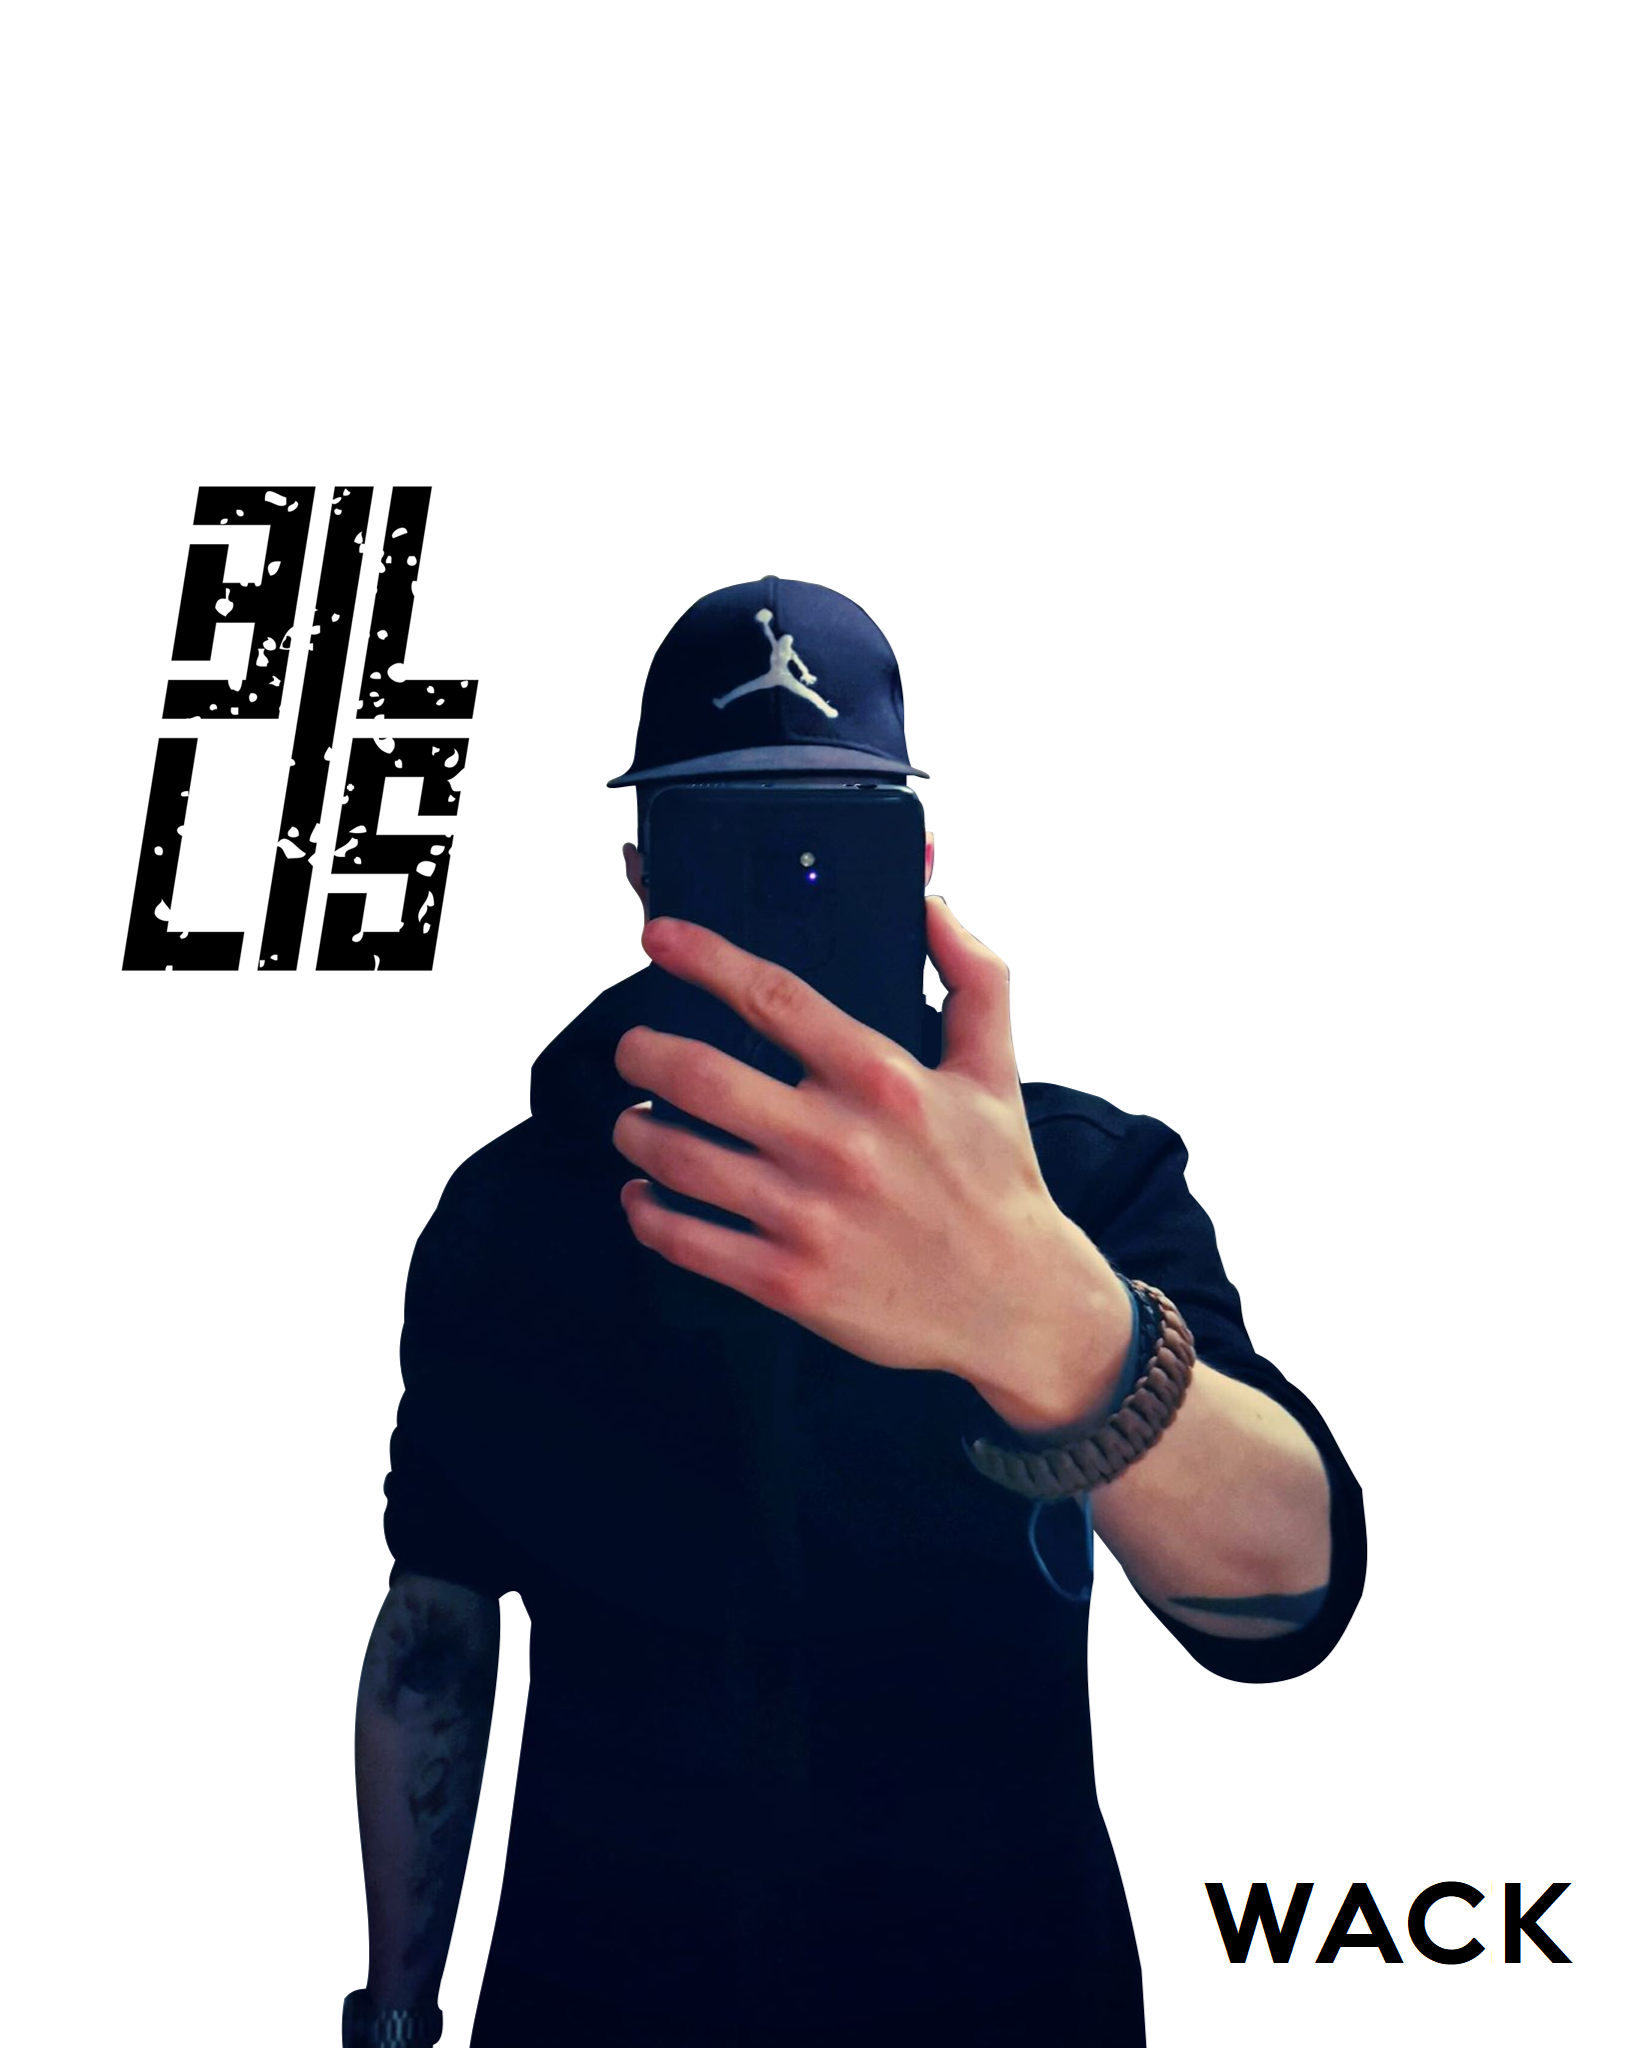
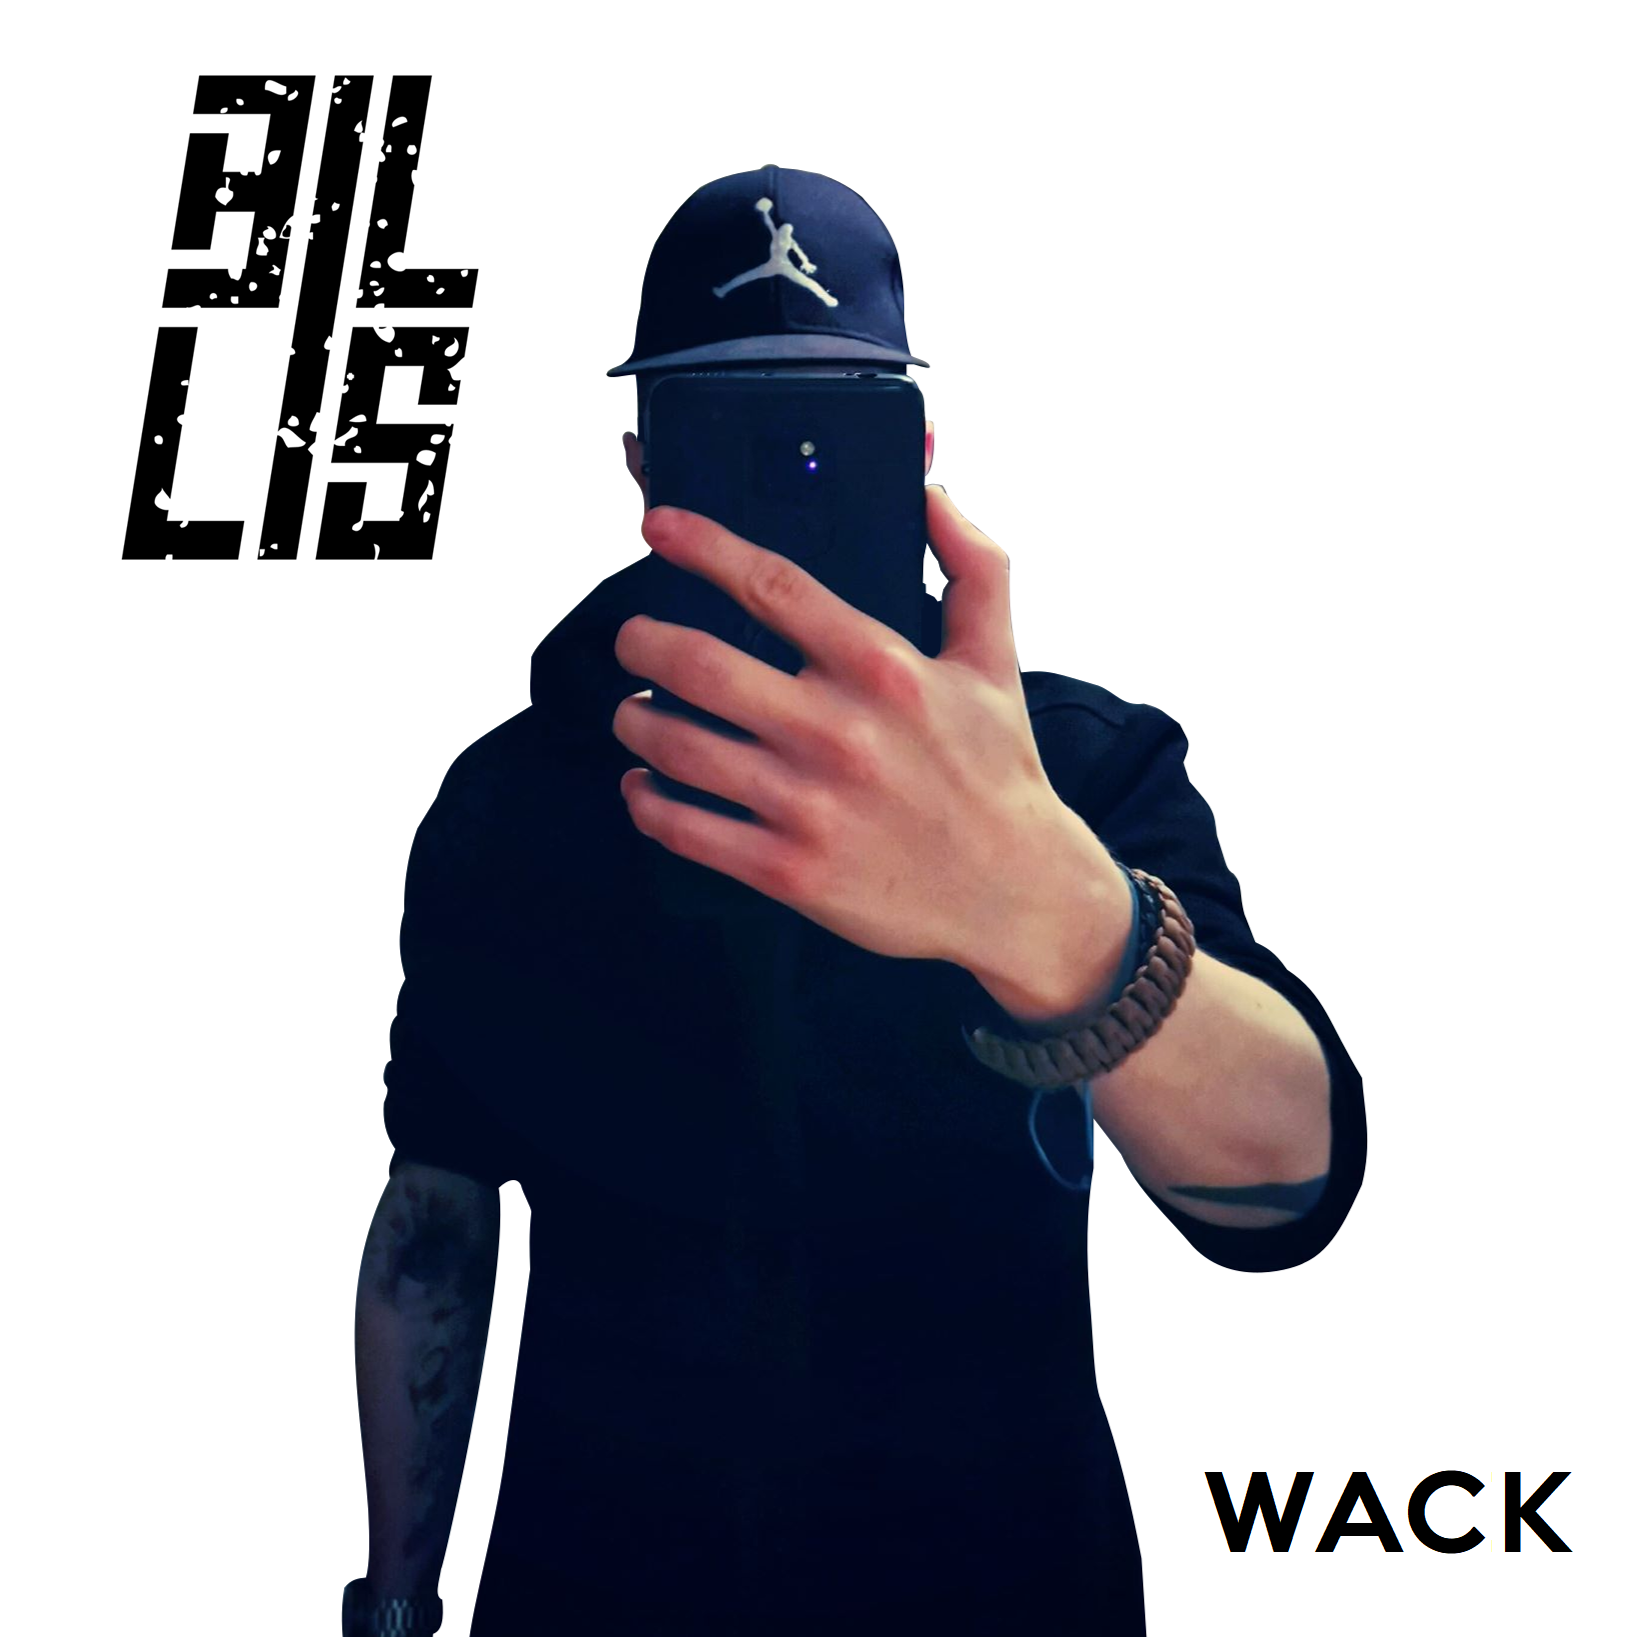
Style songs

Changed region(s): [[0.0623, 0.0312, 0.8417, 0.9658], [0.6858, 0.8723, 0.9664, 0.9658], [0.2182, 0.8723, 0.2494, 0.9035]]

diff --git a/index.html b/index.html
@@ -66,11 +66,11 @@
                     <div class="featured-song grid">
                         <div class="featured-song__left">
                             <img
-                                class="song__cover"
+                                class="featured-song__cover"
                                 src="img/wack_ii.jpg"
                                 alt="Wack II cover art"
                             />
-                            <div>
+                            <div class="featured-song__info">
                                 <h3 class="featured-song__title">WACK II</h3>
                                 <p class="featured-song__subtitle">OUT NOW!</p>
                             </div>
@@ -90,49 +90,82 @@
                         </div>
                     </div>
                     <div class="song">
-                        <img src="" alt="" />
-                        <h3>WACK</h3>
-                        <a
-                            href=""
-                            class="button button--primary button--outlined"
-                        >
-                            <i class="material-icons">play_arrow</i>
-                            LISTEN
-                        </a>
-                        <a href="" class="button button--outlined">
-                            <i class="material-icons">notes</i>
-                            LYRICS
-                        </a>
+                        <div class="song__left">
+                            <img
+                                class="song__cover"
+                                src="img/wack.png"
+                                alt="Wack cover art"
+                            />
+                        </div>
+                        <div class="song__right">
+                            <h3 class="song__title">WACK</h3>
+                            <a
+                                href=""
+                                class="button button--primary button--outlined button--small"
+                            >
+                                <i class="material-icons">play_arrow</i>
+                                LISTEN
+                            </a>
+                            <a
+                                href=""
+                                class="button button--outlined button--small"
+                            >
+                                <i class="material-icons">notes</i>
+                                LYRICS
+                            </a>
+                        </div>
                     </div>
                     <div class="song">
-                        <img src="" alt="" />
-                        <h3>WACK</h3>
-                        <a
-                            href=""
-                            class="button button--primary button--outlined"
-                        >
-                            <i class="material-icons">play_arrow</i>
-                            LISTEN
-                        </a>
-                        <a href="" class="button button--outlined">
-                            <i class="material-icons">notes</i>
-                            LYRICS
-                        </a>
+                        <div class="song__left">
+                            <img
+                                class="song__cover"
+                                src="img/wack.png"
+                                alt="Wack cover art"
+                            />
+                        </div>
+                        <div class="song__right">
+                            <h3 class="song__title">WACK</h3>
+                            <a
+                                href=""
+                                class="button button--primary button--outlined button--small"
+                            >
+                                <i class="material-icons">play_arrow</i>
+                                LISTEN
+                            </a>
+                            <a
+                                href=""
+                                class="button button--outlined button--small"
+                            >
+                                <i class="material-icons">notes</i>
+                                LYRICS
+                            </a>
+                        </div>
                     </div>
                     <div class="song">
-                        <img src="" alt="" />
-                        <h3>WACK</h3>
-                        <a
-                            href=""
-                            class="button button--primary button--outlined"
-                        >
-                            <i class="material-icons">play_arrow</i>
-                            LISTEN
-                        </a>
-                        <a href="" class="button button--outlined">
-                            <i class="material-icons">notes</i>
-                            LYRICS
-                        </a>
+                        <div class="song__left">
+                            <img
+                                class="song__cover"
+                                src="img/wack.png"
+                                alt="Wack cover art"
+                            />
+                        </div>
+                        <div class="song__right">
+                            <h3 class="song__title">WACK</h3>
+                            <a
+                                href=""
+                                class="button button--primary button--outlined button--small"
+                            >
+                                <i class="material-icons">play_arrow</i>
+                                LISTEN
+                            </a>
+                            <a
+                                href=""
+                                class="button button--outlined button--small"
+                            >
+                                <i class="material-icons">notes</i>
+                                LYRICS
+                            </a>
+                        </div>
                     </div>
                 </div>
             </section>

diff --git a/css/main.css b/css/main.css
@@ -82,6 +82,7 @@ a {
 }
 
 .material-icons {
+  font-size: 1.4em;
   margin-right: 0.4em;
 }
 
@@ -149,6 +150,7 @@ a {
   display: grid;
   -ms-grid-columns: (1fr)[3];
       grid-template-columns: repeat(3, 1fr);
+  grid-gap: 8rem 0;
   -webkit-box-align: center;
       -ms-flex-align: center;
           align-items: center;
@@ -173,12 +175,16 @@ a {
           align-items: center;
 }
 
+.featured-song__info {
+  margin-left: 1.4rem;
+}
+
 .featured-song__title {
   color: var(--clr-primary);
   margin-bottom: -0.6rem;
 }
 
-.featured-song .song__cover {
+.featured-song__cover {
   width: 16rem;
   -webkit-transform: translateX(-3.2rem);
           transform: translateX(-3.2rem);
@@ -190,6 +196,25 @@ a {
   background: var(--clr-grey-3);
   background: -webkit-gradient(linear, left top, right top, from(#474747), to(rgba(71, 71, 71, 0)));
   background: linear-gradient(to right, #474747 0%, rgba(71, 71, 71, 0) 100%);
+}
+
+.song {
+  display: -webkit-box;
+  display: -ms-flexbox;
+  display: flex;
+  -webkit-box-align: center;
+      -ms-flex-align: center;
+          align-items: center;
+}
+
+.song__cover {
+  width: 12rem;
+  margin-right: 3.2rem;
+}
+
+.song__title {
+  font-size: 3.6rem;
+  margin-bottom: 0.4rem;
 }
 
 /* ========== BUTTONS ========== */
@@ -237,5 +262,11 @@ a {
 
 .button--outlined.button--primary::before {
   background-color: var(--clr-primary);
+}
+
+.button--small {
+  font-size: 1.1rem;
+  padding: 1.1rem 2.4rem;
+  margin-right: 1.6rem;
 }
 /*# sourceMappingURL=main.css.map */

diff --git a/css/main.scss b/css/main.scss
@@ -79,6 +79,7 @@ a {
 }
 
 .material-icons {
+    font-size: 1.4em;
     margin-right: 0.4em;
 }
 
@@ -130,6 +131,7 @@ a {
 .grid {
     display: grid;
     grid-template-columns: repeat(3, 1fr);
+    grid-gap: 8rem 0;
     align-items: center;
 }
 
@@ -146,11 +148,14 @@ a {
         display: flex;
         align-items: center;
     }
+    &__info {
+        margin-left: 1.4rem;
+    }
     &__title {
         color: var(--clr-primary);
         margin-bottom: -0.6rem;
     }
-    .song__cover {
+    &__cover {
         width: 16rem;
         transform: translateX(-3.2rem);
     }
@@ -163,6 +168,19 @@ a {
             rgba(71, 71, 71, 1) 0%,
             rgba(71, 71, 71, 0) 100%
         );
+    }
+}
+
+.song {
+    display: flex;
+    align-items: center;
+    &__cover {
+        width: 12rem;
+        margin-right: 3.2rem;
+    }
+    &__title {
+        font-size: 3.6rem;
+        margin-bottom: 0.4rem;
     }
 }
 
@@ -219,5 +237,10 @@ a {
     }
     &--outlined.button--primary::before {
         background-color: var(--clr-primary);
+    }
+    &--small {
+        font-size: 1.1rem;
+        padding: 1.1rem 2.4rem;
+        margin-right: 1.6rem;
     }
 }
